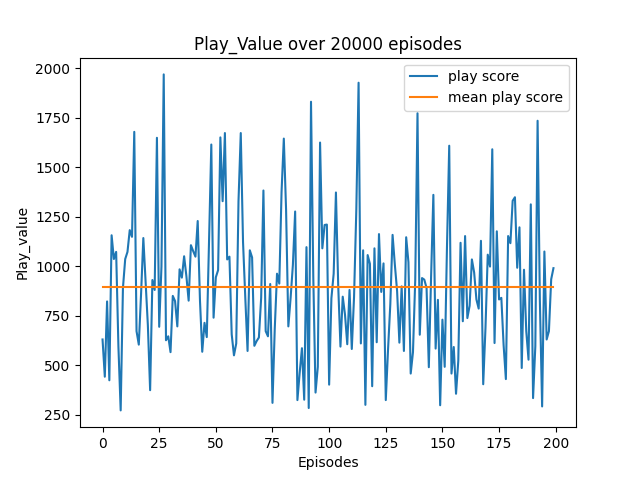
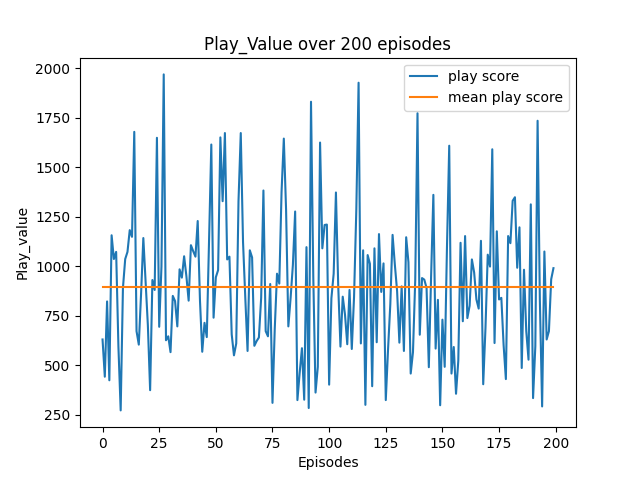
new plot

Changed region(s): [[0.2812, 0.0625, 0.7188, 0.125]]

diff --git a/Half/plot.py b/Half/plot.py
@@ -84,7 +84,7 @@ plt.plot(episode3,play,label = "play score")
 plt.plot(episode3,meanx,label = "mean play score")
 plt.xlabel("Episodes")
 plt.ylabel("Play_value")
-plt.title("Play_Value over 20000 episodes")
+plt.title("Play_Value over 200 episodes")
 plt.legend()
 plt.savefig("/Users/enzuomou/Desktop/cisc474_final_group/CISC474_2048dql/Half/plot/PlayValue_over_episodes.png")
 plt.show()
